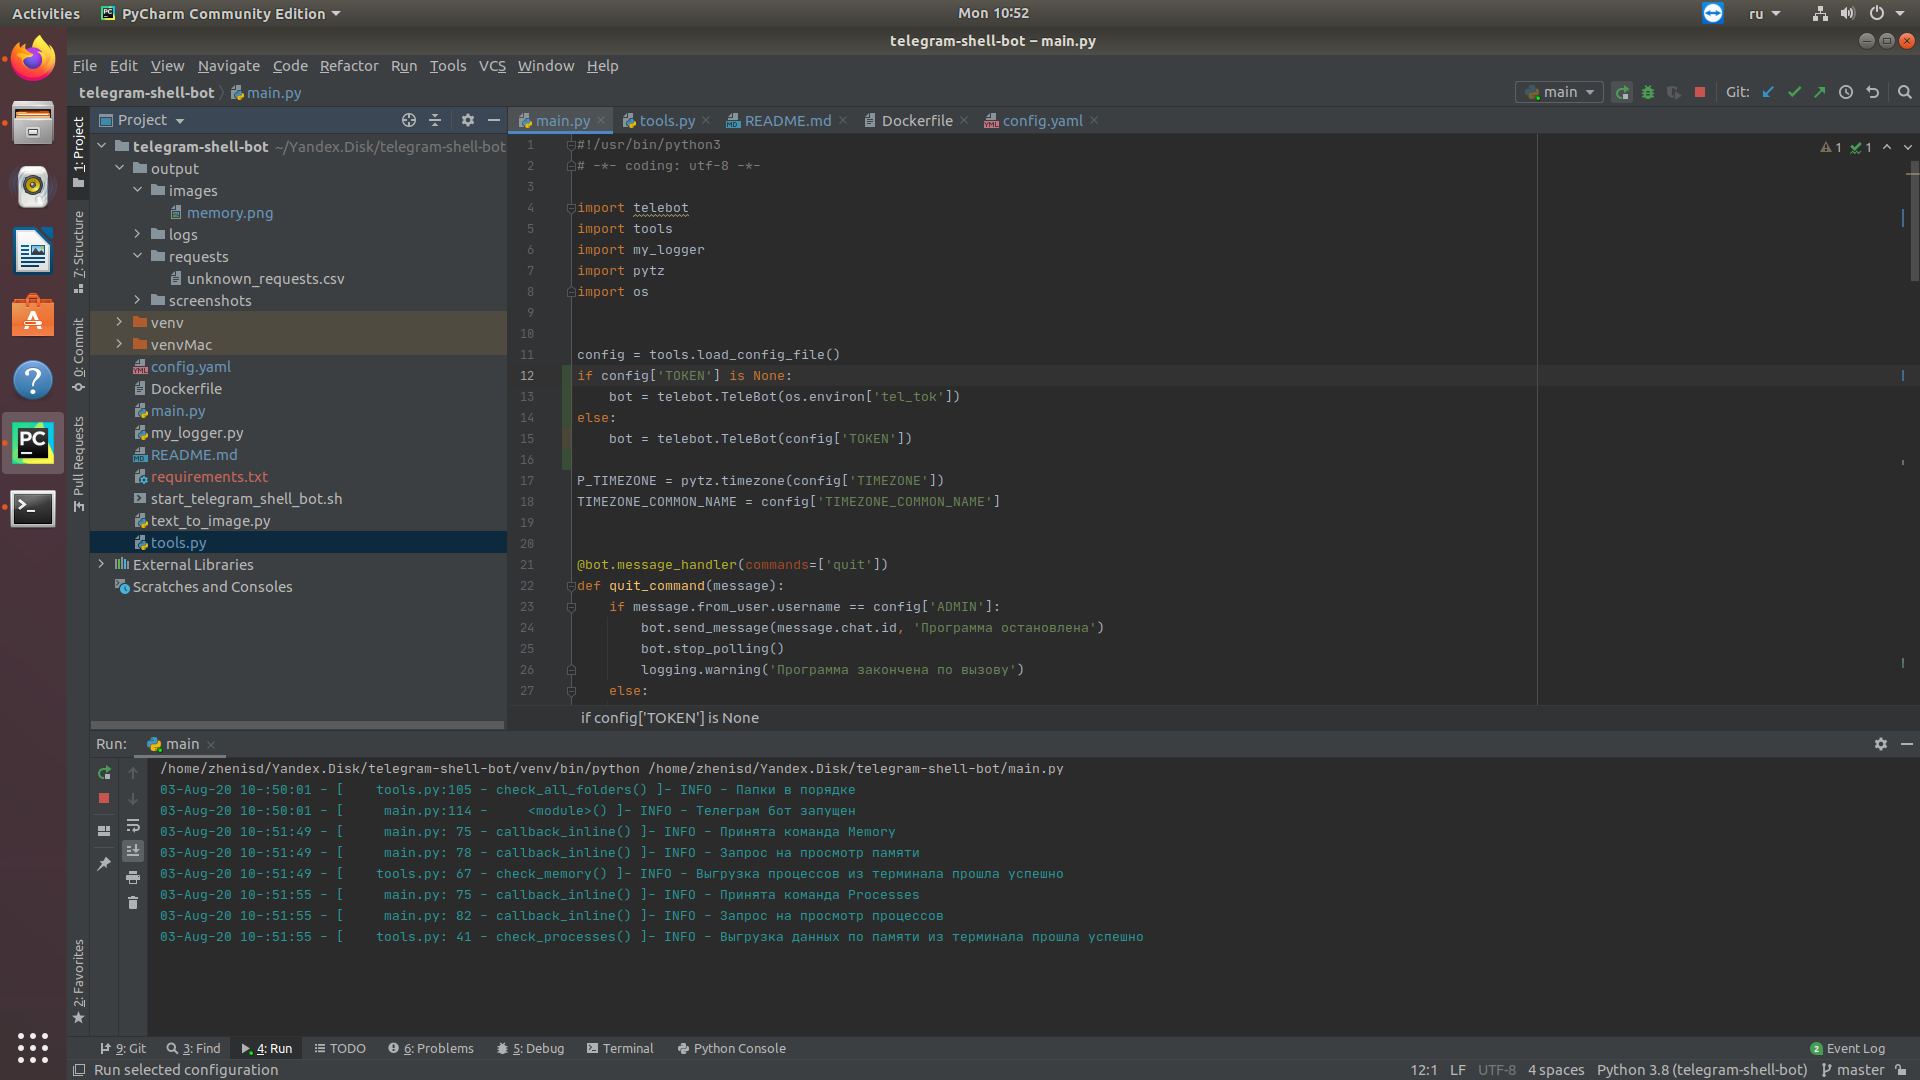
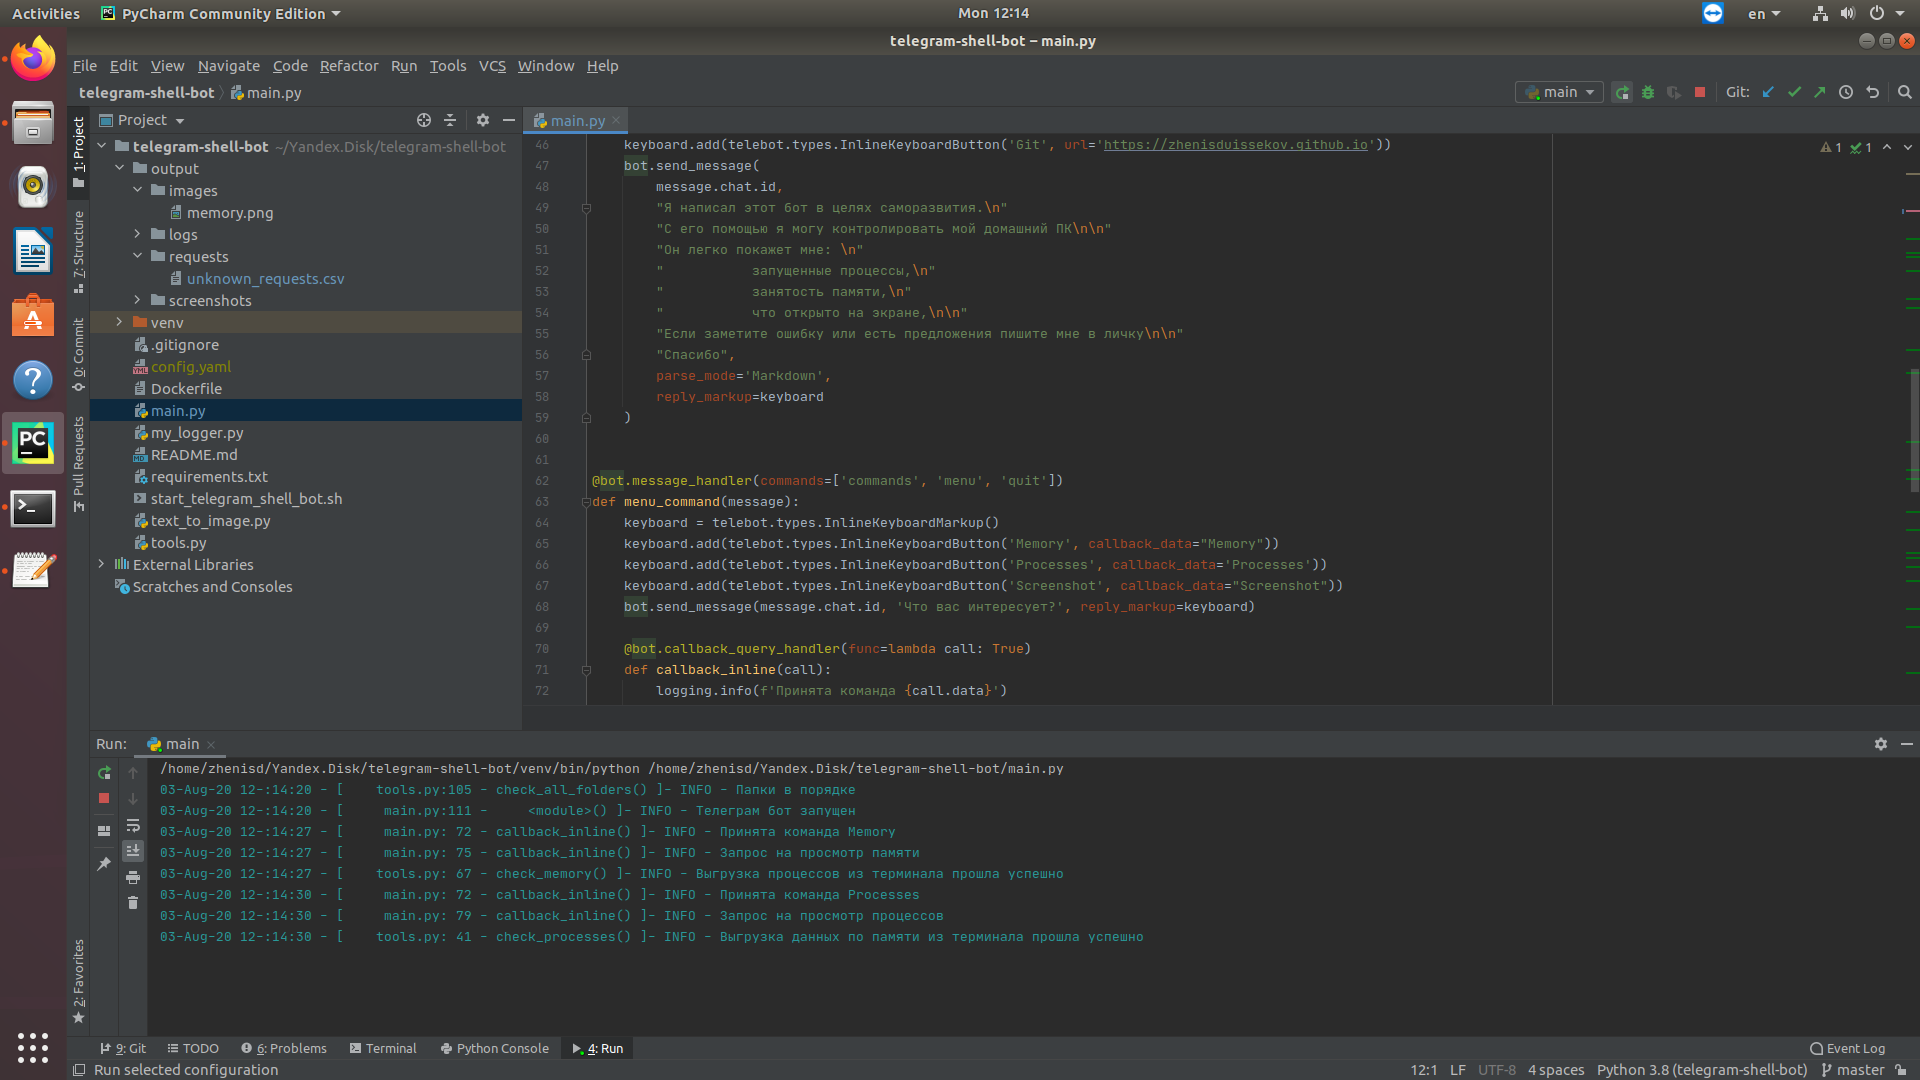
поправки с расстановкой кнопок

diff --git a/main.py b/main.py
@@ -9,10 +9,7 @@ import os
 
 
 config = tools.load_config_file()
-if config['TOKEN'] is None:
-    bot = telebot.TeleBot(os.environ['tel_tok'])
-else:
-    bot = telebot.TeleBot(config['TOKEN'])
+bot = telebot.TeleBot(config['TOKEN'])
 
 P_TIMEZONE = pytz.timezone(config['TIMEZONE'])
 TIMEZONE_COMMON_NAME = config['TIMEZONE_COMMON_NAME']
@@ -45,8 +42,8 @@ def start_command(message):
 @bot.message_handler(commands=['help', 'info'])
 def help_command(message):
     keyboard = telebot.types.InlineKeyboardMarkup()
-    keyboard.add(telebot.types.InlineKeyboardButton('Message the developer', url='telegram.me/zduissekov'))
     keyboard.add(telebot.types.InlineKeyboardButton('Git', url='https://zhenisduissekov.github.io'))
+    keyboard.add(telebot.types.InlineKeyboardButton('Message the developer', url='telegram.me/zduissekov'))
     bot.send_message(
         message.chat.id,
         "Я написал этот бот в целях саморазвития.\n"
